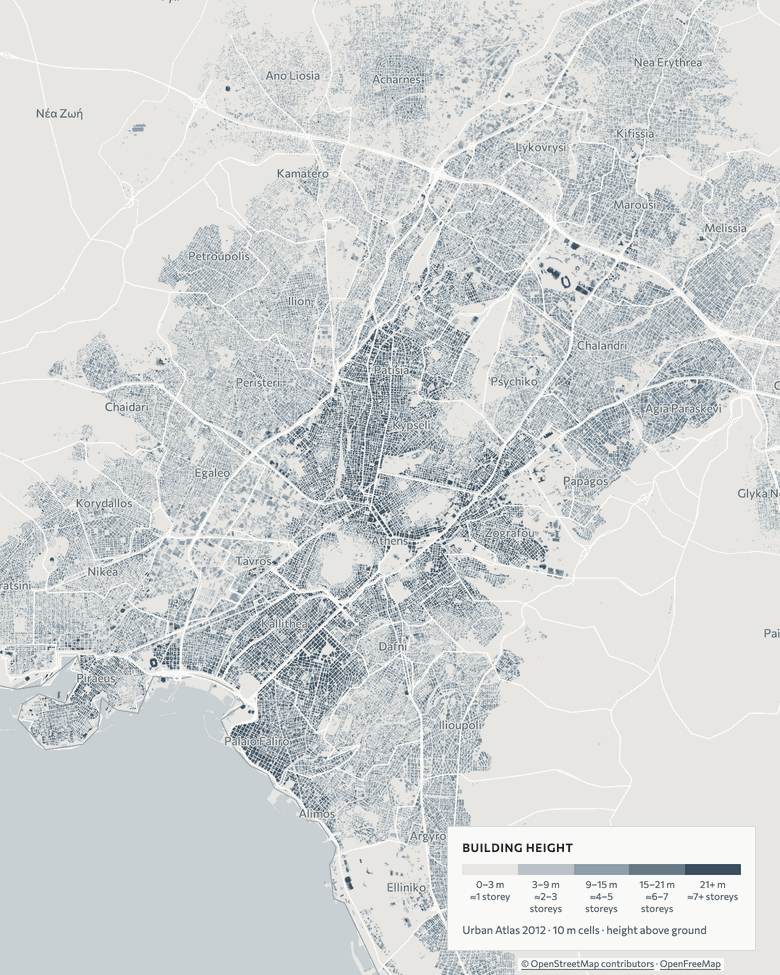
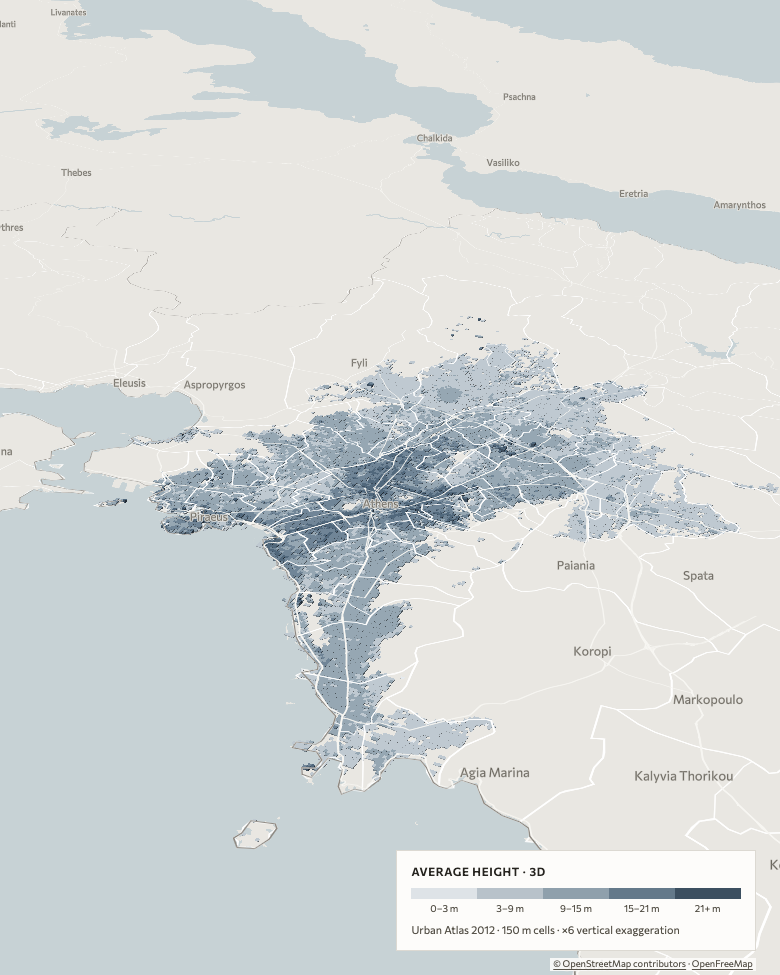
Open on the 3D height plateau (ch1)

diff --git a/js/main.js b/js/main.js
@@ -65,8 +65,11 @@
     "1": {
       chip: "01 / 10 · Athens today",
       center: [23.735, 37.99],
-      zoom: 10.4,
-      layer: "heights"
+      zoom: 10.25,
+      bearing: HEIGHT_BEARING,
+      pitch: HEIGHT_PITCH,
+      layer: "heights3d",
+      reducedMotionLayer: "heights"
     },
     "2": {
       chip: "02 / 10 · 1833–1920",
@@ -557,13 +560,13 @@
         setCensusEpoch("p_1946_80");
         setActiveLayer("census");
         chip.textContent = "09 / 10 · 1946–1980";
-        if (leaving3d && moveForStateChange) moveCamera(CHAPTERS[chapter], false);
+        if (leaving3d && moveForStateChange) moveCamera(CHAPTERS[chapter]);
       } else {
         var entering3d = activeMapLayer !== "heights3d";
         setActiveLayer("heights3d");
         chip.textContent =
           "09 / 10 · Average height · 2012 · ×" + HEIGHT_EXAGGERATION;
-        if (entering3d && moveForStateChange) moveCamera(CHAPTERS[chapter], false);
+        if (entering3d && moveForStateChange) moveCamera(CHAPTERS[chapter]);
       }
     }
   }
@@ -616,45 +619,38 @@
     }
   }
 
-  function moveCamera(state, settle) {
+  function moveCamera(state) {
     if (!mapStyleReady || !map) return;
     var use3d = activeMapLayer === "heights3d";
+    var bearing = 0;
+    var pitch = 0;
+    if (use3d) {
+      bearing = typeof state.bearing === "number" ? state.bearing : HEIGHT_BEARING;
+      pitch = typeof state.pitch === "number" ? state.pitch : HEIGHT_PITCH;
+    }
     var options = {
       center: state.center,
       zoom: state.zoom,
-      bearing: use3d ? HEIGHT_BEARING : 0,
-      pitch: use3d ? HEIGHT_PITCH : 0,
+      bearing: bearing,
+      pitch: pitch,
       padding: cameraPadding()
     };
+    var flatteningOpening = currentChapter === "2" && map.getPitch() > 0;
     map.stop();
-
-    if (settle) {
-      if (prefersReducedMotion) {
-        options.zoom = 11.2;
-        map.jumpTo(options);
-      } else {
-        map.jumpTo(options);
-        map.easeTo({
-          center: state.center,
-          zoom: 11.2,
-          bearing: 0,
-          pitch: 0,
-          padding: cameraPadding(),
-          duration: 1400,
-          easing: function (t) {
-            return t * (2 - t);
-          }
-        });
-      }
-      return;
-    }
 
     if (prefersReducedMotion) {
       map.jumpTo(options);
     } else {
       options.duration = 1400;
       options.essential = false;
-      map.flyTo(options);
+      if (flatteningOpening) {
+        options.easing = function (t) {
+          return t * (2 - t);
+        };
+        map.easeTo(options);
+      } else {
+        map.flyTo(options);
+      }
     }
   }
 
@@ -691,7 +687,9 @@
       );
       setActiveLayer(selectedLayer ? selectedLayer.value : "census");
     } else {
-      setActiveLayer(state.layer);
+      var chapterLayer = prefersReducedMotion && state.reducedMotionLayer ?
+        state.reducedMotionLayer : state.layer;
+      setActiveLayer(chapterLayer);
     }
 
     if (map) {
@@ -703,7 +701,7 @@
         setMapInteraction(false);
       }
     }
-    if (move) moveCamera(state, chapter === "1");
+    if (move) moveCamera(state);
   }
 
   function setChapterState(number, options) {

diff --git a/index.html b/index.html
@@ -82,7 +82,7 @@
       <section class="step prose" id="chapter-1" data-chapter="1" tabindex="-1">
         <div class="card">
         <p class="chapter-folio"><span>01 / 10</span><span>Athens today</span></p>
-        <figure class="map-static"><img src="assets/static/ch01.png" width="780" height="975" loading="lazy" alt="Map of central Athens showing the 2012 building-height carpet."><figcaption>Building Height 2012 · 10 m cells; height above ground, not a count of storeys.</figcaption></figure>
+        <figure class="map-static"><img src="assets/static/ch01.png" width="780" height="975" loading="lazy" alt="Oblique 3D map of 150 metre average-height cells across the Athens basin."><figcaption>Urban Atlas 2012 · 150 m cells · ×6 vertical exaggeration; area averages, not a building model.</figcaption></figure>
         <h2>The sameness</h2>
         <p>Stand on a street corner anywhere in the Athens basin and look up. The same building looks back: a concrete frame of five, six, seven storeys, balconies running the width of the facade, the top floors stepping back against the sky. Ride a bus from Patisia to Kallithea to Peristeri and the type repeats, with small variations, for an hour in any direction. Athens is among the oldest cities in Europe, and almost nothing standing in it is old. Of the buildings standing in the Municipality of Athens at the 2021 census, two in three were built between 1946 and 1980. Below, we tell the story of how a small neoclassical capital, swollen first by refugees and then by villagers, rebuilt itself block by block into the concrete city on your screen, without a master plan, with almost no bank credit, and with barely any state construction.</p>
         <aside class="sources"><span class="sources__label">1 / Sources</span><p>ELSTAT 2021 Buildings Census, Table 6; Karadimitriou, Maloutas &amp; Arapoglou 2021.</p></aside>

diff --git a/DESIGN.md b/DESIGN.md
@@ -90,6 +90,8 @@ The extrusion is an aggregate surface, never a building model. It is derived fro
 
 `height-extrusion` uses the same slate bands and breaks as the flat carpet, with extrusion height `h × 6`, flat band color on the whole prism, pitch 58°, and bearing −17°. Chapter 9 has two symmetric progress states: the 1946–80 census view first, then the extrusion. Its 3D legend begins, verbatim, “A plateau, not a skyline: the same five-to-seven-storey carpet across the basin.” and follows with “Urban Atlas 2012 · 150 m cells · ×6 vertical exaggeration.” Explore retains `Heights` for the 10 m flat raster and adds `Heights 3D`; rotation and pitch controls are enabled only for the 3D selection. Leaving 3D returns bearing and pitch to zero. Reduced motion makes both layer and camera changes instant.
 
+Chapter 1 opens on the same extrusion at its basin camera (pitch 58°, bearing −17°, ×6 legend visible), with the flat 10 m carpet as its reduced-motion state and an eased return to pitch 0° on entry to chapter 2.
+
 ## 3. Typography
 
 | Role | Face | Size / weight |

diff --git a/content/chapters.md b/content/chapters.md
@@ -6,7 +6,7 @@
 
 ## 1. The sameness
 
-**Map state:** full-bleed 2012 Urban Atlas building-height carpet; camera settles over the central basin.
+**Map state:** oblique 3D view of the 2012 Urban Atlas 150 m average-height surface at ×6 vertical exaggeration, opening across the central basin; reduced motion uses the flat 10 m height carpet.
 
 Stand on a street corner anywhere in the Athens basin and look up. The same building looks back: a concrete frame of five, six, seven storeys, balconies running the width of the facade, the top floors stepping back against the sky. Ride a bus from Patisia to Kallithea to Peristeri and the type repeats, with small variations, for an hour in any direction. Athens is among the oldest cities in Europe, and almost nothing standing in it is old. Of the buildings standing in the Municipality of Athens at the 2021 census, two in three were built between 1946 and 1980. Below, we tell the story of how a small neoclassical capital, swollen first by refugees and then by villagers, rebuilt itself block by block into the concrete city on your screen, without a master plan, with almost no bank credit, and with barely any state construction.
 